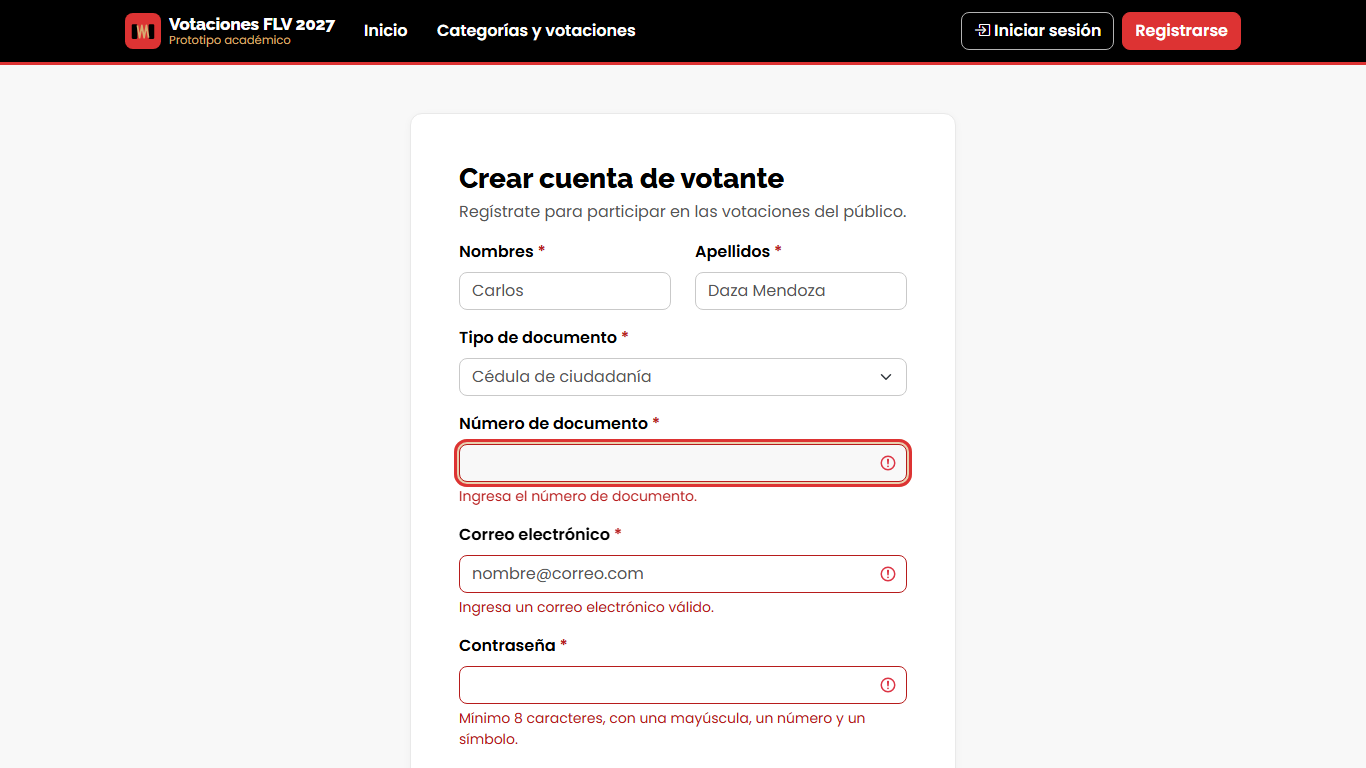
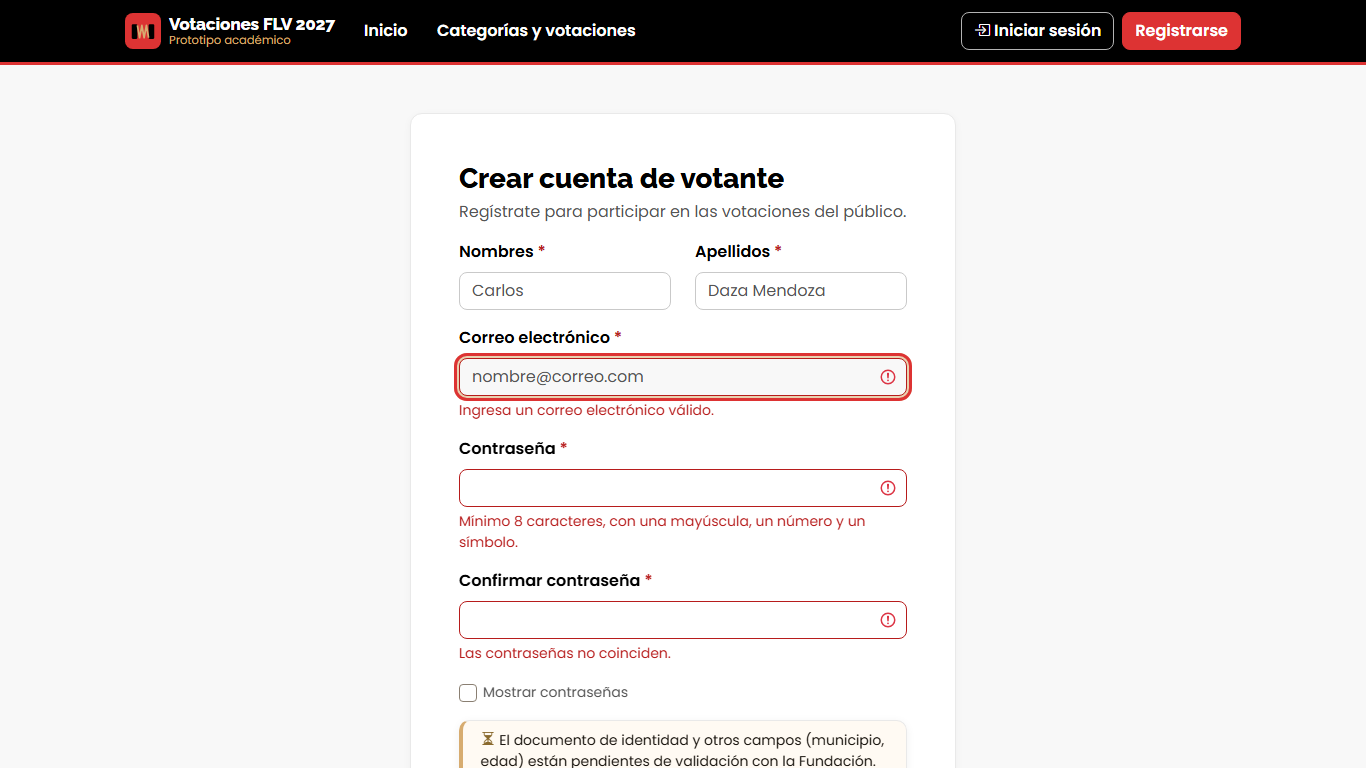
Mostrar el documento en el registro solo si se pide y completarlo antes de votar
Configuración tiene la sección Registro con el interruptor «Pedir documento al registrarse» (apagado por defecto). Si una cuenta sin documento intenta votar con el ajuste activo, una ventana pide el tipo y el número y luego sigue con la confirmación del voto.

diff --git a/app/web/src/pages/Registro.jsx b/app/web/src/pages/Registro.jsx
@@ -12,12 +12,14 @@ const INICIAL = {
   aceptaTratamientoDatos: false,
 };
 
-function validar(f) {
+function validar(f, pedirDocumento) {
   const e = {};
   if (f.nombres.trim().length < 2) e.nombres = 'Ingresa tus nombres.';
   if (f.apellidos.trim().length < 2) e.apellidos = 'Ingresa tus apellidos.';
-  const documento = errorDocumento(f.tipoDocumento, f.numeroDocumento);
-  if (documento) e.numeroDocumento = documento;
+  if (pedirDocumento) {
+    const documento = errorDocumento(f.tipoDocumento, f.numeroDocumento);
+    if (documento) e.numeroDocumento = documento;
+  }
   if (!validarCorreo(f.correo)) e.correo = 'Ingresa un correo electrónico válido.';
   if (!validarContrasena(f.contrasena)) e.contrasena = 'Mínimo 8 caracteres, con una mayúscula, un número y un símbolo.';
   if (f.confirmacion !== f.contrasena || !f.confirmacion) e.confirmacion = 'Las contraseñas no coinciden.';
@@ -26,10 +28,12 @@ function validar(f) {
 }
 
 export default function Registro() {
-  const { registrarUsuario } = useApp();
+  const { registrarUsuario, configuracion } = useApp();
+  // La administración decide si se pide documento (Configuración › Registro); por defecto, no
+  const pedirDocumento = !!configuracion?.pedirDocumento;
   useSeo({
     titulo: 'Crea tu cuenta para votar',
-    descripcion: 'Regístrate con tu correo y tu documento para votar por tus favoritos del Festival de la Leyenda Vallenata.',
+    descripcion: 'Regístrate con tu correo para votar por tus favoritos del Festival de la Leyenda Vallenata.',
   });
   const [form, setForm] = useState(INICIAL);
   const [errores, setErrores] = useState({});
@@ -45,14 +49,14 @@ export default function Registro() {
     const { name, value, type, checked } = e.target;
     const nuevo = { ...form, [name]: type === 'checkbox' ? checked : value };
     setForm(nuevo);
-    if (enviado) setErrores(validar(nuevo));
+    if (enviado) setErrores(validar(nuevo, pedirDocumento));
   };
 
   const enviar = async (e) => {
     e.preventDefault();
     if (enviando) return;
     setEnviado(true);
-    const errs = validar(form);
+    const errs = validar(form, pedirDocumento);
     setErrores(errs);
     if (Object.keys(errs).length) {
       document.getElementById(Object.keys(errs)[0])?.focus();
@@ -60,7 +64,7 @@ export default function Registro() {
     }
     setEnviando(true);
     setErrorGeneral('');
-    const r = await registrarUsuario(form);
+    const r = await registrarUsuario(pedirDocumento ? form : { ...form, numeroDocumento: '' });
     setEnviando(false);
     if (!r.ok) {
       // Errores por campo devueltos por el servidor (p. ej. contraseña demasiado común)
@@ -105,6 +109,7 @@ export default function Registro() {
                 <div className="col-sm-6">{campo('nombres', 'Nombres', 'text', { attrs: { autoComplete: 'given-name' } })}</div>
                 <div className="col-sm-6">{campo('apellidos', 'Apellidos', 'text', { attrs: { autoComplete: 'family-name' } })}</div>
               </div>
+              {pedirDocumento && (
               <div className="row">
                 <div className="col-12 mb-3">
                   <label htmlFor="tipoDocumento" className="form-label">Tipo de documento <span className="text-danger" aria-hidden="true">*</span></label>
@@ -119,6 +124,7 @@ export default function Registro() {
                   })}
                 </div>
               </div>
+              )}
               {campo('correo', 'Correo electrónico', 'email', { attrs: { autoComplete: 'email', placeholder: 'nombre@correo.com' } })}
               {campo('contrasena', 'Contraseña', verClave ? 'text' : 'password', {
                 ayuda: 'Mínimo 8 caracteres, con una mayúscula, un número y un símbolo.',
@@ -132,7 +138,7 @@ export default function Registro() {
 
               <div className="alert alert-warning small py-2" role="note">
                 <i className="bi bi-hourglass-split me-1" aria-hidden="true"></i>
-                Campos adicionales (municipio, edad) pendientes de validación con la Fundación.
+                {pedirDocumento ? 'Otros campos' : 'El documento de identidad y otros campos'} (municipio, edad) están pendientes de validación con la Fundación.
               </div>
 
               <div className="form-check mb-4">

diff --git a/app/web/src/pages/admin/AdminConfiguracion.jsx b/app/web/src/pages/admin/AdminConfiguracion.jsx
@@ -11,6 +11,7 @@ const SECCIONES = [
   { id: 'votacion', label: 'Votación', icono: 'check2-square', descripcion: 'Votos por usuario y pausa de emergencia de la edición.' },
   { id: 'resultados', label: 'Resultados', icono: 'bar-chart', descripcion: 'Cuándo ve el público los resultados de la edición.' },
   { id: 'visibilidad', label: 'Votaciones cerradas', icono: 'eye', descripcion: 'Cuánto tiempo siguen en el sitio después de cerrar.' },
+  { id: 'registro', label: 'Registro', icono: 'person-vcard', descripcion: 'Qué datos se piden a quien crea una cuenta para votar.' },
   { id: 'presentacion', label: 'Presentación', icono: 'grid', descripcion: 'Cómo ve el público las categorías, las opciones de cada votación y el inicio.' },
 ];
 
@@ -148,6 +149,7 @@ export default function AdminConfiguracion() {
     if (seccion === 'votacion') guardarEdicion({ votosPorUsuario: 1, votacionesPausadas: false }, 'Votación restablecida: 1 voto por usuario, sin pausa.', 'Restableció la configuración de votación');
     if (seccion === 'resultados') guardarEdicion({ mostrarResultados: 'al cerrar' }, 'Resultados restablecidos: al cerrar.', 'Restableció la visibilidad de resultados');
     if (seccion === 'visibilidad') guardarSitio({ diasVisibleCerradas: DIAS_VISIBLE_CERRADAS }, `Restablecido: ${DIAS_VISIBLE_CERRADAS} días.`);
+    if (seccion === 'registro') guardarSitio({ pedirDocumento: false }, 'Registro restablecido: solo con correo confirmado.');
     if (seccion === 'presentacion') {
       guardar(async () => {
         const r = await guardarEntidad('ediciones', { id: edicion.id, presentacionCategorias: 'tarjetas' }, 'Restableció la presentación de categorías');
@@ -303,6 +305,33 @@ export default function AdminConfiguracion() {
                 </div>
               </div>
               )}
+            </Fila>
+          )}
+
+          {seccion === 'registro' && (
+            <Fila
+              id="cfg-documento-titulo"
+              titulo="Documento de identidad"
+              descripcion="Por defecto el registro es solo con correo confirmado. Si lo activas, quien se registre debe dar su tipo y número de documento (una cuenta por documento), y quien ya tenga cuenta sin documento lo completará antes de su próximo voto. Aplica a todo el sitio; pendiente de validación con la Fundación (P-01)."
+            >
+              <div className="form-check form-switch">
+                <input
+                  className="form-check-input"
+                  type="checkbox"
+                  role="switch"
+                  id="cfg-pedir-documento"
+                  checked={!!configuracion?.pedirDocumento}
+                  disabled={procesando}
+                  aria-describedby="cfg-documento-titulo"
+                  onChange={(e) => guardarSitio(
+                    { pedirDocumento: e.target.checked },
+                    e.target.checked
+                      ? 'El registro pide documento; quienes no lo tengan lo completarán antes de votar.'
+                      : 'El registro ya no pide documento.',
+                  )}
+                />
+                <label className="form-check-label fw-semibold" htmlFor="cfg-pedir-documento">Pedir documento al registrarse</label>
+              </div>
             </Fila>
           )}
 

diff --git a/app/web/src/context/MockProvider.jsx b/app/web/src/context/MockProvider.jsx
@@ -125,8 +125,8 @@ export function MockProvider({ children }) {
     if (datos.usuarios.some((u) => u.correo.toLowerCase() === form.correo.trim().toLowerCase())) {
       return { ok: false, error: 'Ya existe una cuenta con este correo.', errores: { correo: 'Ya existe una cuenta con este correo.' } };
     }
-    const numeroDocumento = normalizarDocumento(form.numeroDocumento);
-    if (datos.usuarios.some((u) => u.tipoDocumento === form.tipoDocumento && u.numeroDocumento === numeroDocumento)) {
+    const numeroDocumento = normalizarDocumento(form.numeroDocumento || '') || null;
+    if (numeroDocumento && datos.usuarios.some((u) => u.tipoDocumento === form.tipoDocumento && u.numeroDocumento === numeroDocumento)) {
       const error = 'Ya existe una cuenta con este documento.';
       return { ok: false, error, errores: { numeroDocumento: error } };
     }
@@ -135,7 +135,7 @@ export function MockProvider({ children }) {
       nombres: form.nombres.trim(),
       apellidos: form.apellidos.trim(),
       correo: form.correo.trim().toLowerCase(),
-      tipoDocumento: form.tipoDocumento,
+      tipoDocumento: numeroDocumento ? form.tipoDocumento : '',
       numeroDocumento,
       // En la demostración no se envían correos: la cuenta queda confirmada al crearla
       correoVerificado: true,
@@ -162,6 +162,9 @@ export function MockProvider({ children }) {
     const votacion = votaciones.find((v) => v.id === votacionId);
     if (!votacion || votacion.estado !== 'abierta') return { ok: false, error: 'La votación no está abierta.' };
     if (votacion.pausada) return { ok: false, error: 'Las votaciones están en pausa temporalmente. Intenta más tarde.' };
+    if (datos.configuracion?.pedirDocumento && !usuario.numeroDocumento) {
+      return { ok: false, codigo: 'documento_requerido', error: 'Completa tu tipo y número de documento para poder votar.' };
+    }
     if (votosDeUsuario(votacionId).length >= votosPermitidos(votacion)) return { ok: false, error: 'Ya registraste tu voto en esta votación.' };
     const voto = {
       id: siguienteId(datos.votos),
@@ -404,6 +407,17 @@ export function MockProvider({ children }) {
     // Sin correos en la demostración: confirmar y reenviar no tienen nada que hacer
     confirmarCorreo: async () => ({ ok: true, usuario }),
     reenviarConfirmacion: async () => ({ ok: true, mensaje: 'En la demostración la cuenta ya está confirmada.' }),
+    completarDocumento: async (tipoDocumento, numero) => {
+      if (!usuario) return { ok: false, error: 'Debes iniciar sesión.' };
+      if (usuario.numeroDocumento) return { ok: false, codigo: 'documento_ya_registrado', error: 'Tu documento ya está registrado.' };
+      const numeroDocumento = normalizarDocumento(numero);
+      if (datos.usuarios.some((u) => u.tipoDocumento === tipoDocumento && u.numeroDocumento === numeroDocumento)) {
+        const error = 'Ya existe una cuenta con este documento.';
+        return { ok: false, error, errores: { numeroDocumento: error } };
+      }
+      setDatos((d) => ({ ...d, usuarios: d.usuarios.map((u) => (u.id === usuario.id ? { ...u, tipoDocumento, numeroDocumento } : u)) }));
+      return { ok: true };
+    },
     votosDeUsuario,
     emitirVoto,
     guardarEntidad,

diff --git a/app/web/src/components/CompletarDocumento.jsx b/app/web/src/components/CompletarDocumento.jsx
@@ -1,0 +1,75 @@
+import { useState } from 'react';
+import { useApp } from '../context/AppContext.jsx';
+import Modal from './Modal.jsx';
+import { TIPOS_DOCUMENTO, errorDocumento } from '../utils/documento.js';
+
+/**
+ * Ventana para registrar el documento antes de votar. Aparece cuando la administración empezó a pedir documento
+ * y la cuenta se creó sin él; al guardarlo llama a onListo para seguir con el voto.
+ */
+export default function CompletarDocumento({ abierto, onCerrar, onListo }) {
+  const { completarDocumento } = useApp();
+  const [tipo, setTipo] = useState('CC');
+  const [numero, setNumero] = useState('');
+  const [error, setError] = useState('');
+  const [enviando, setEnviando] = useState(false);
+
+  const guardar = async (e) => {
+    e?.preventDefault();
+    const invalido = errorDocumento(tipo, numero);
+    if (invalido) {
+      setError(invalido);
+      document.getElementById('doc-numero')?.focus();
+      return;
+    }
+    setEnviando(true);
+    const r = await completarDocumento(tipo, numero);
+    setEnviando(false);
+    if (!r.ok) return setError(r.errores?.numeroDocumento || r.error);
+    setNumero('');
+    setError('');
+    onListo();
+  };
+
+  return (
+    <Modal
+      abierto={abierto}
+      titulo="Completa tu documento para votar"
+      onCerrar={onCerrar}
+      pie={
+        <>
+          <button type="button" className="btn btn-outline-secondary" onClick={onCerrar} disabled={enviando}>Cancelar</button>
+          <button type="submit" form="form-documento" className="btn btn-primary" disabled={enviando}>
+            {enviando ? <><span className="spinner-border spinner-border-sm me-1" aria-hidden="true"></span>Guardando…</> : 'Guardar y continuar'}
+          </button>
+        </>
+      }
+    >
+      <p className="mb-3">
+        Para votar en esta edición se pide el documento de identidad: una cuenta por persona. Lo registras una sola vez.
+      </p>
+      <form id="form-documento" noValidate onSubmit={guardar}>
+        <div className="mb-3">
+          <label htmlFor="doc-tipo" className="form-label">Tipo de documento</label>
+          <select id="doc-tipo" className="form-select" value={tipo} onChange={(e) => setTipo(e.target.value)}>
+            {TIPOS_DOCUMENTO.map((t) => <option key={t.valor} value={t.valor}>{t.etiqueta}</option>)}
+          </select>
+        </div>
+        <label htmlFor="doc-numero" className="form-label">Número de documento</label>
+        <input
+          id="doc-numero"
+          className={`form-control ${error ? 'is-invalid' : ''}`}
+          value={numero}
+          onChange={(e) => { setNumero(e.target.value); if (error) setError(''); }}
+          inputMode={['CC', 'TI'].includes(tipo) ? 'numeric' : 'text'}
+          autoComplete="off"
+          aria-invalid={!!error}
+          aria-describedby={error ? 'doc-error' : 'doc-ayuda'}
+        />
+        {error
+          ? <div id="doc-error" className="invalid-feedback">{error}</div>
+          : <div id="doc-ayuda" className="form-text">Sin puntos ni espacios.</div>}
+      </form>
+    </Modal>
+  );
+}

diff --git a/app/web/src/pages/VotacionDetalle.jsx b/app/web/src/pages/VotacionDetalle.jsx
@@ -6,6 +6,7 @@ import EstadoBadge from '../components/EstadoBadge.jsx';
 import Countdown from '../components/Countdown.jsx';
 import Avatar from '../components/Avatar.jsx';
 import Modal from '../components/Modal.jsx';
+import CompletarDocumento from '../components/CompletarDocumento.jsx';
 import ResultadosVotacion from '../components/ResultadosVotacion.jsx';
 import OpcionesVotacion from '../components/presentaciones/OpcionesVotacion.jsx';
 import NoEncontrado from './NoEncontrado.jsx';
@@ -24,11 +25,12 @@ function leerSeleccion(id) {
 }
 
 export default function VotacionDetalle() {
-  const { opciones, usuario, esAdmin, votosDeUsuario, emitirVoto } = useApp();
+  const { opciones, usuario, esAdmin, votosDeUsuario, emitirVoto, configuracion } = useApp();
   const { edicion, categoria, votacion } = useRutaPublica();
   const rutas = useRutas();
   const [seleccion, setSeleccion] = useState(() => (votacion ? leerSeleccion(votacion.id) : null));
   const [confirmando, setConfirmando] = useState(false);
+  const [pidiendoDocumento, setPidiendoDocumento] = useState(false);
   const [enviando, setEnviando] = useState(false);
   const [error, setError] = useState('');
   const navigate = useNavigate();
@@ -55,6 +57,8 @@ export default function VotacionDetalle() {
   const puedeVotar = abierta && !yaVoto;
   // Cuenta registrada sin confirmar el correo: puede ver y elegir, pero el voto se habilita al confirmar
   const sinConfirmar = usuario?.correoVerificado === false;
+  // Si la administración pide documento y la cuenta no lo tiene, se completa antes de confirmar el voto
+  const faltaDocumento = !!configuracion?.pedirDocumento && !!usuario && !usuario.numeroDocumento;
   const opcionElegida = lista.find((o) => o.id === (yaVoto ? misVotos[0].opcionId : seleccion));
 
   const elegir = (opcionId) => {
@@ -82,6 +86,10 @@ export default function VotacionDetalle() {
       setError('Confirma tu correo para poder votar. Revisa tu bandeja de entrada o usa «Reenviar enlace» arriba.');
       return;
     }
+    if (faltaDocumento) {
+      setPidiendoDocumento(true);
+      return;
+    }
     setConfirmando(true);
   };
 
@@ -90,6 +98,7 @@ export default function VotacionDetalle() {
     const r = await emitirVoto(votacion.id, seleccion);
     setEnviando(false);
     setConfirmando(false);
+    if (r.codigo === 'documento_requerido') return setPidiendoDocumento(true);
     if (!r.ok) return setError(r.error);
     try {
       sessionStorage.removeItem(claveSeleccion(votacion.id));
@@ -200,6 +209,12 @@ export default function VotacionDetalle() {
           </section>
         </div>
       </div>
+
+      <CompletarDocumento
+        abierto={pidiendoDocumento}
+        onCerrar={() => setPidiendoDocumento(false)}
+        onListo={() => { setPidiendoDocumento(false); setConfirmando(true); }}
+      />
 
       <Modal
         abierto={confirmando}

diff --git a/app/web/src/context/ApiProvider.jsx b/app/web/src/context/ApiProvider.jsx
@@ -199,8 +199,8 @@ export function ApiProvider({ children }) {
       email: form.correo.trim().toLowerCase(),
       nombres: form.nombres.trim(),
       apellidos: form.apellidos.trim(),
-      tipo_documento: form.tipoDocumento,
-      numero_documento: form.numeroDocumento.trim(),
+      // El documento solo viaja si se llenó (la administración decide si es obligatorio)
+      ...(form.numeroDocumento?.trim() ? { tipo_documento: form.tipoDocumento, numero_documento: form.numeroDocumento.trim() } : {}),
       password: form.contrasena,
       acepta_tratamiento_datos: form.aceptaTratamientoDatos,
     });
@@ -220,6 +220,18 @@ export function ApiProvider({ children }) {
     const confirmado = usuarioDesdeApi(r.datos);
     setUsuario((u) => (u && u.id === confirmado.id ? { ...u, correoVerificado: true } : u));
     return { ok: true, usuario: confirmado };
+  };
+
+  /** Para cuentas sin documento cuando la administración empieza a pedirlo: se registra una sola vez. */
+  const completarDocumento = async (tipoDocumento, numeroDocumento) => {
+    const r = await api.post('/auth/documento/', { tipo_documento: tipoDocumento, numero_documento: numeroDocumento.trim() });
+    if (!r.ok) {
+      const errores = erroresDesdeApi('usuarios', r.errores);
+      return { ok: false, error: r.error, codigo: r.codigo, errores };
+    }
+    const actualizado = usuarioDesdeApi(r.datos);
+    setUsuario((u) => (u ? { ...u, tipoDocumento: actualizado.tipoDocumento, numeroDocumento: actualizado.numeroDocumento } : u));
+    return { ok: true };
   };
 
   const reenviarConfirmacion = async () => {
@@ -428,6 +440,7 @@ export function ApiProvider({ children }) {
     registrarUsuario,
     confirmarCorreo,
     reenviarConfirmacion,
+    completarDocumento,
     votosDeUsuario,
     emitirVoto,
     guardarEntidad,

diff --git a/app/web/src/api/adaptadores.js b/app/web/src/api/adaptadores.js
@@ -50,7 +50,7 @@ const CAMPOS = {
   redes: { id: 'id', nombre: 'nombre', url: 'url', icono: 'icono', orden: 'orden', activa: 'activa' },
   configuracion: {
     nombreOrganizacion: 'nombre_organizacion', telefono: 'telefono', direccion: 'direccion', correo: 'correo', textoPie: 'texto_pie',
-    modoBanner: 'modo_banner', diasVisibleCerradas: 'dias_visible_cerradas', mostrarTotalVotos: 'mostrar_total_votos', marca: 'marca',
+    modoBanner: 'modo_banner', diasVisibleCerradas: 'dias_visible_cerradas', mostrarTotalVotos: 'mostrar_total_votos', pedirDocumento: 'pedir_documento', marca: 'marca',
   },
   usuarios: {
     id: 'id', correo: 'email', nombres: 'nombres', apellidos: 'apellidos', rol: 'rol', activo: 'is_active',

diff --git a/app/web/src/data/seed.js b/app/web/src/data/seed.js
@@ -279,6 +279,8 @@ export function crearDatosSemilla() {
     correo: 'presidencia@festivalvallenato.com',
     textoPie: 'Diseño académico original: no representa la marca oficial del Festival ni de la Fundación.',
     modoBanner: 'carrusel',
+    // Pendiente de validación (P-01): por defecto el registro es solo con correo
+    pedirDocumento: false,
     diasVisibleCerradas: 7,
   };
   const redes = [
